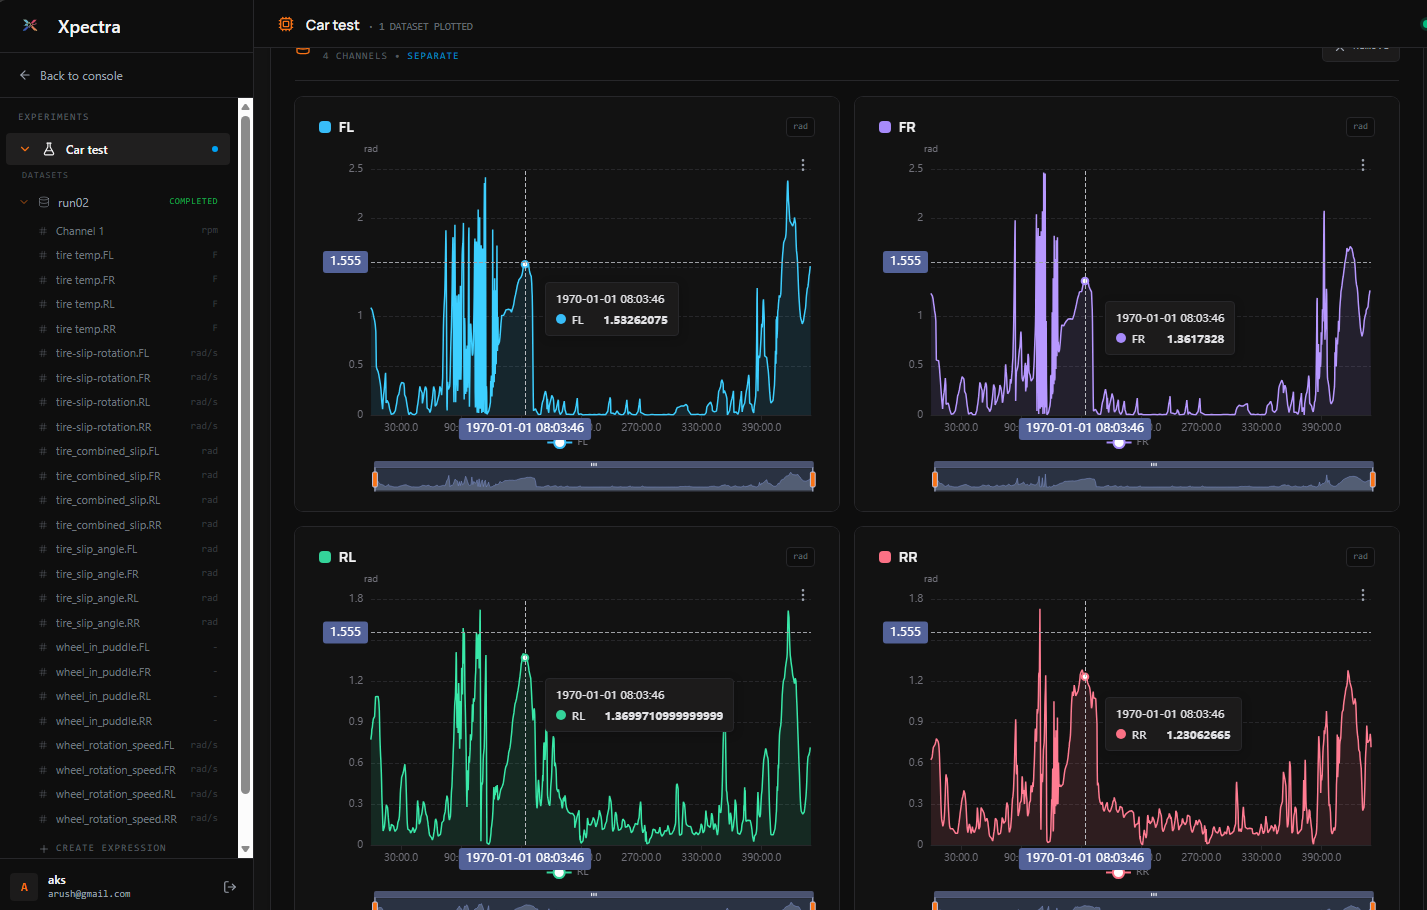
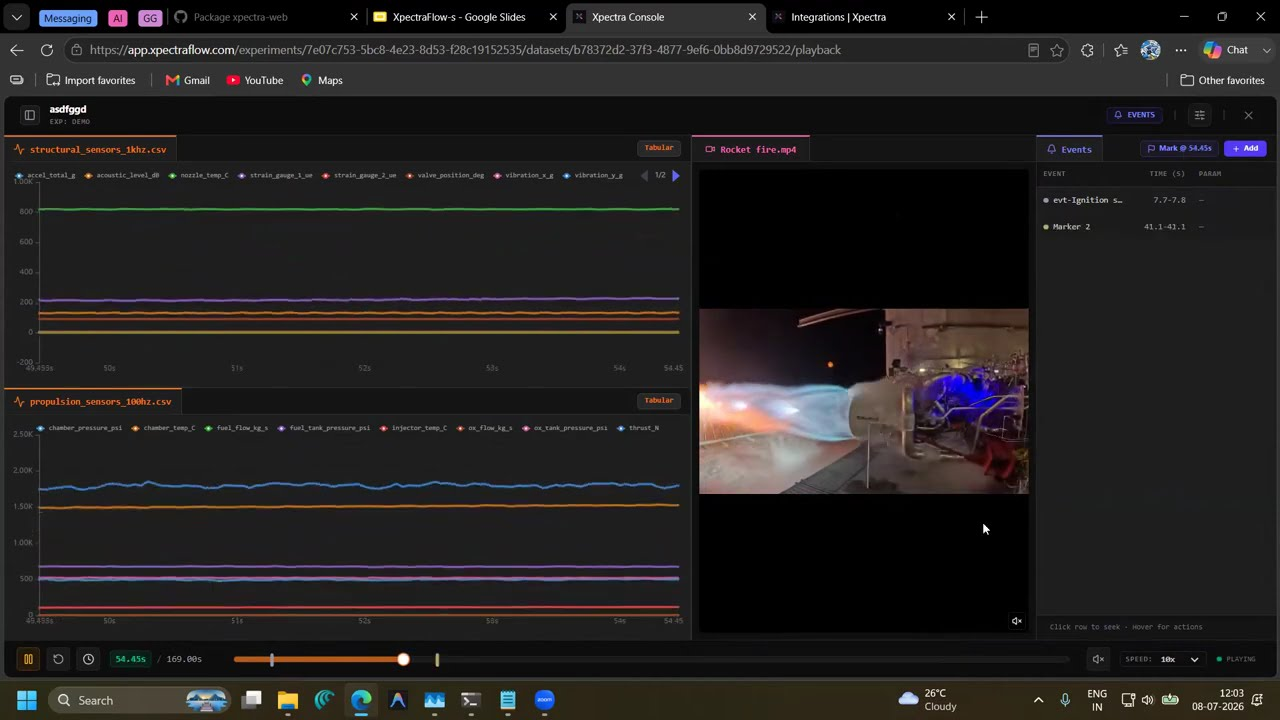
feat: add website landing page with hero video section and integration showcase

diff --git a/components/xpectra-website.tsx b/components/xpectra-website.tsx
@@ -85,11 +85,11 @@ const XpectraWebsite = () => {
           >
           <div className="absolute inset-0 rounded-3xl shadow-2xl bg-white blur-[10rem] opacity-[0.07] pointer-events-none" />
           <div className="relative aspect-video w-full shadow-2xl rounded-2xl border border-white/10 overflow-hidden bg-black/40 backdrop-blur-3xl group cursor-pointer"
-            onClick={() => {
+             onClick={() => {
               const container = document.getElementById('video-container');
               if (container) {
                 container.innerHTML = `<iframe 
-                     src="https://www.youtube.com/embed/CLUqwdlTMtw?rel=0&modestbranding=1&autoplay=1" 
+                     src="https://www.youtube.com/embed/yRJlbAfxUm4?rel=0&modestbranding=1&autoplay=1" 
                      title="Xpectra Demo"
                      allow="accelerometer; autoplay; clipboard-write; encrypted-media; gyroscope; picture-in-picture" 
                      allowFullScreen
